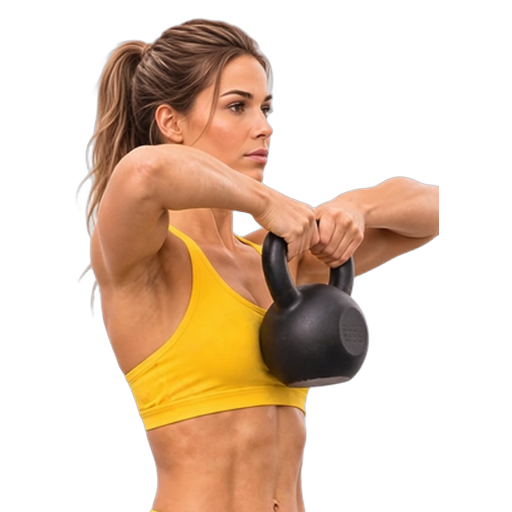
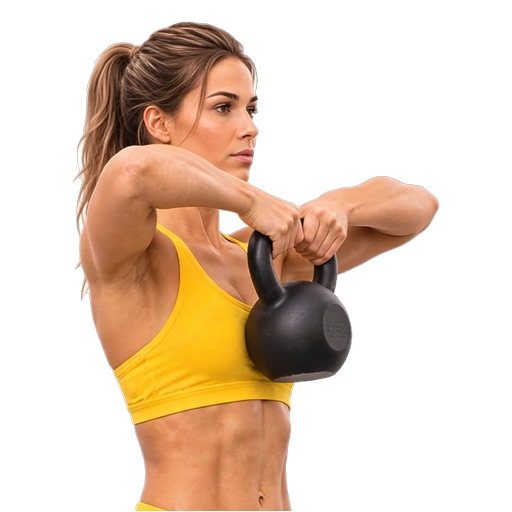
1.7.98 : icône Tirage menton, bras gauche entier
Claude-Session: https://claude.ai/code/session_01D2bERS7WBZgExNoVRodtwC

Changed region(s): [[0.125, 0.0312, 0.875, 1.0], [0.375, 0.9688, 0.4062, 1.0]]

diff --git a/sw.js b/sw.js
@@ -2,7 +2,7 @@
 // APP_VERSION doit être incrémenté à chaque release (en même temps que
 // manifest.json) : le navigateur ne réinstalle le service worker que si
 // le contenu de ce fichier change.
-const APP_VERSION = '1.7.97';
+const APP_VERSION = '1.7.98';
 // 1.7.64 (co-auteur : Claude) : production (…/suivi-fitness/) et test (…/suivi-fitness/dev/) sont sur le même
 // domaine et partagent le stockage des caches : chaque version nomme ses caches d'après son dossier et ne
 // supprime que les siens (plus les anciens caches sans dossier, d'avant la 1.7.64).

diff --git a/CHANGELOG.md b/CHANGELOG.md
@@ -7,6 +7,12 @@ et ce projet respecte [Semantic Versioning](https://semver.org/spec/v2.0.0.html)
 
 ---
 
+## [1.7.98] - 2026-11-15
+### 🖼 Icône du Tirage menton corrigée (co-auteur : Claude)
+- **Tirage menton** : le coude du bras gauche était coupé par le détourage ; image détourée à nouveau, bras entier, même cadrage.
+
+---
+
 ## [1.7.97] - 2026-11-14
 ### 🖼 5 nouvelles icônes d'exercices, Presse à cuisses refaite (co-auteur : Claude)
 - **Nouvelles icônes** : Développé rotatif haltères, Développé épaules machine, Tirage menton (kettlebell), Curl barre EZ, Ab wheel.
